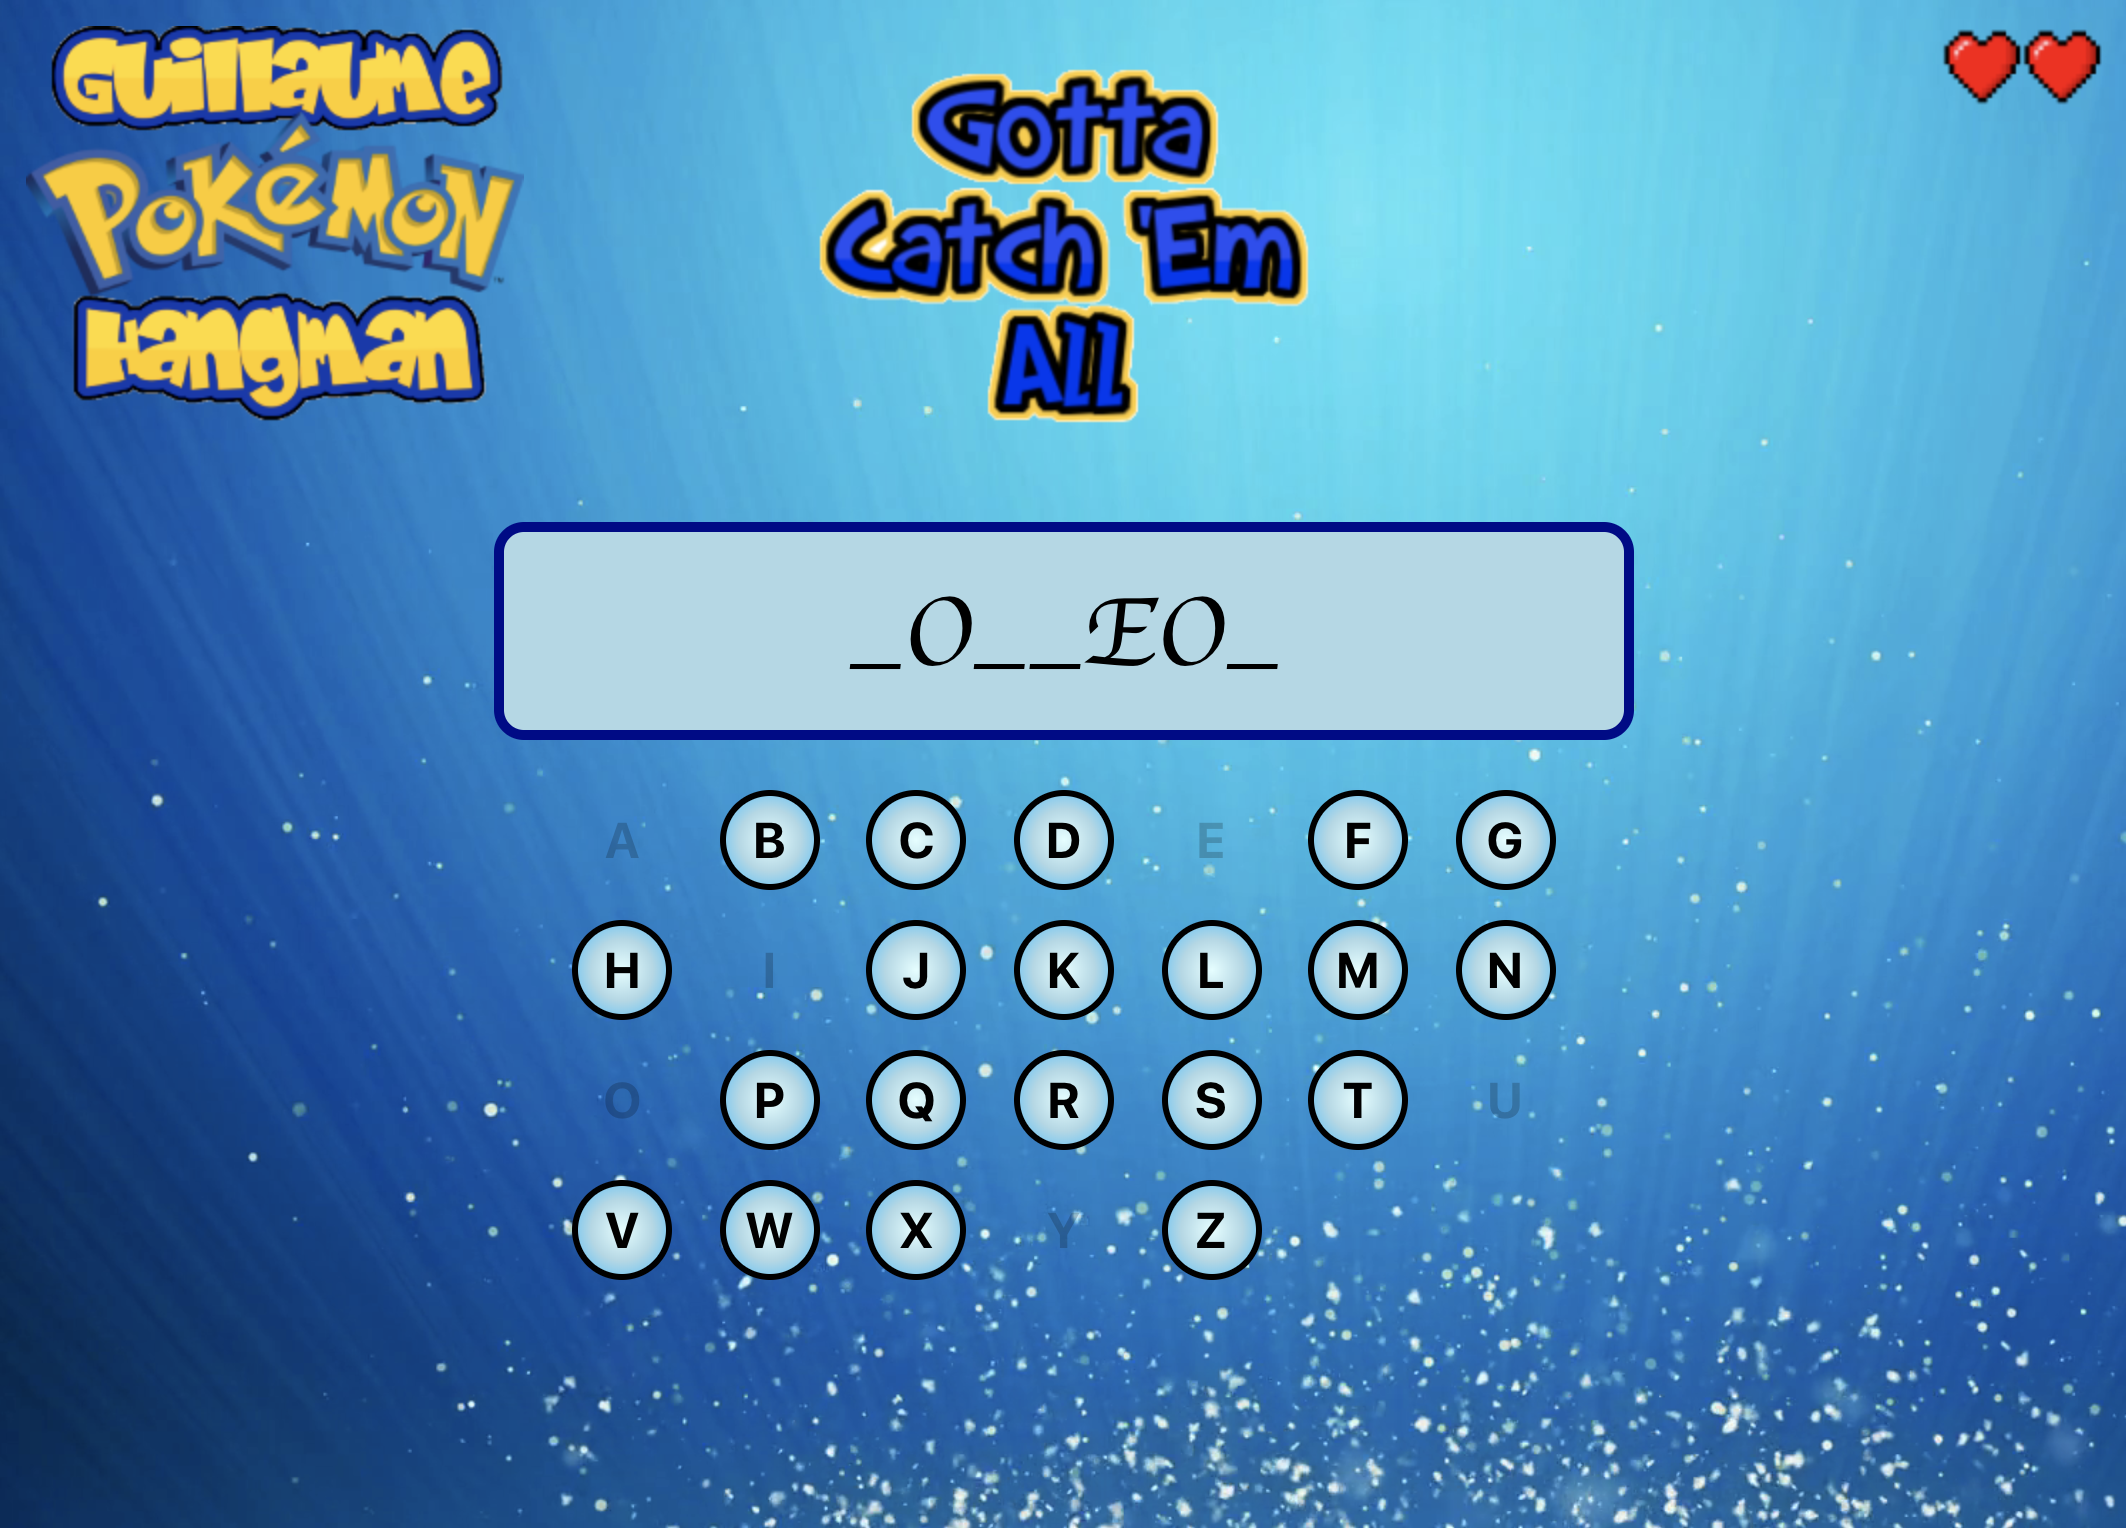
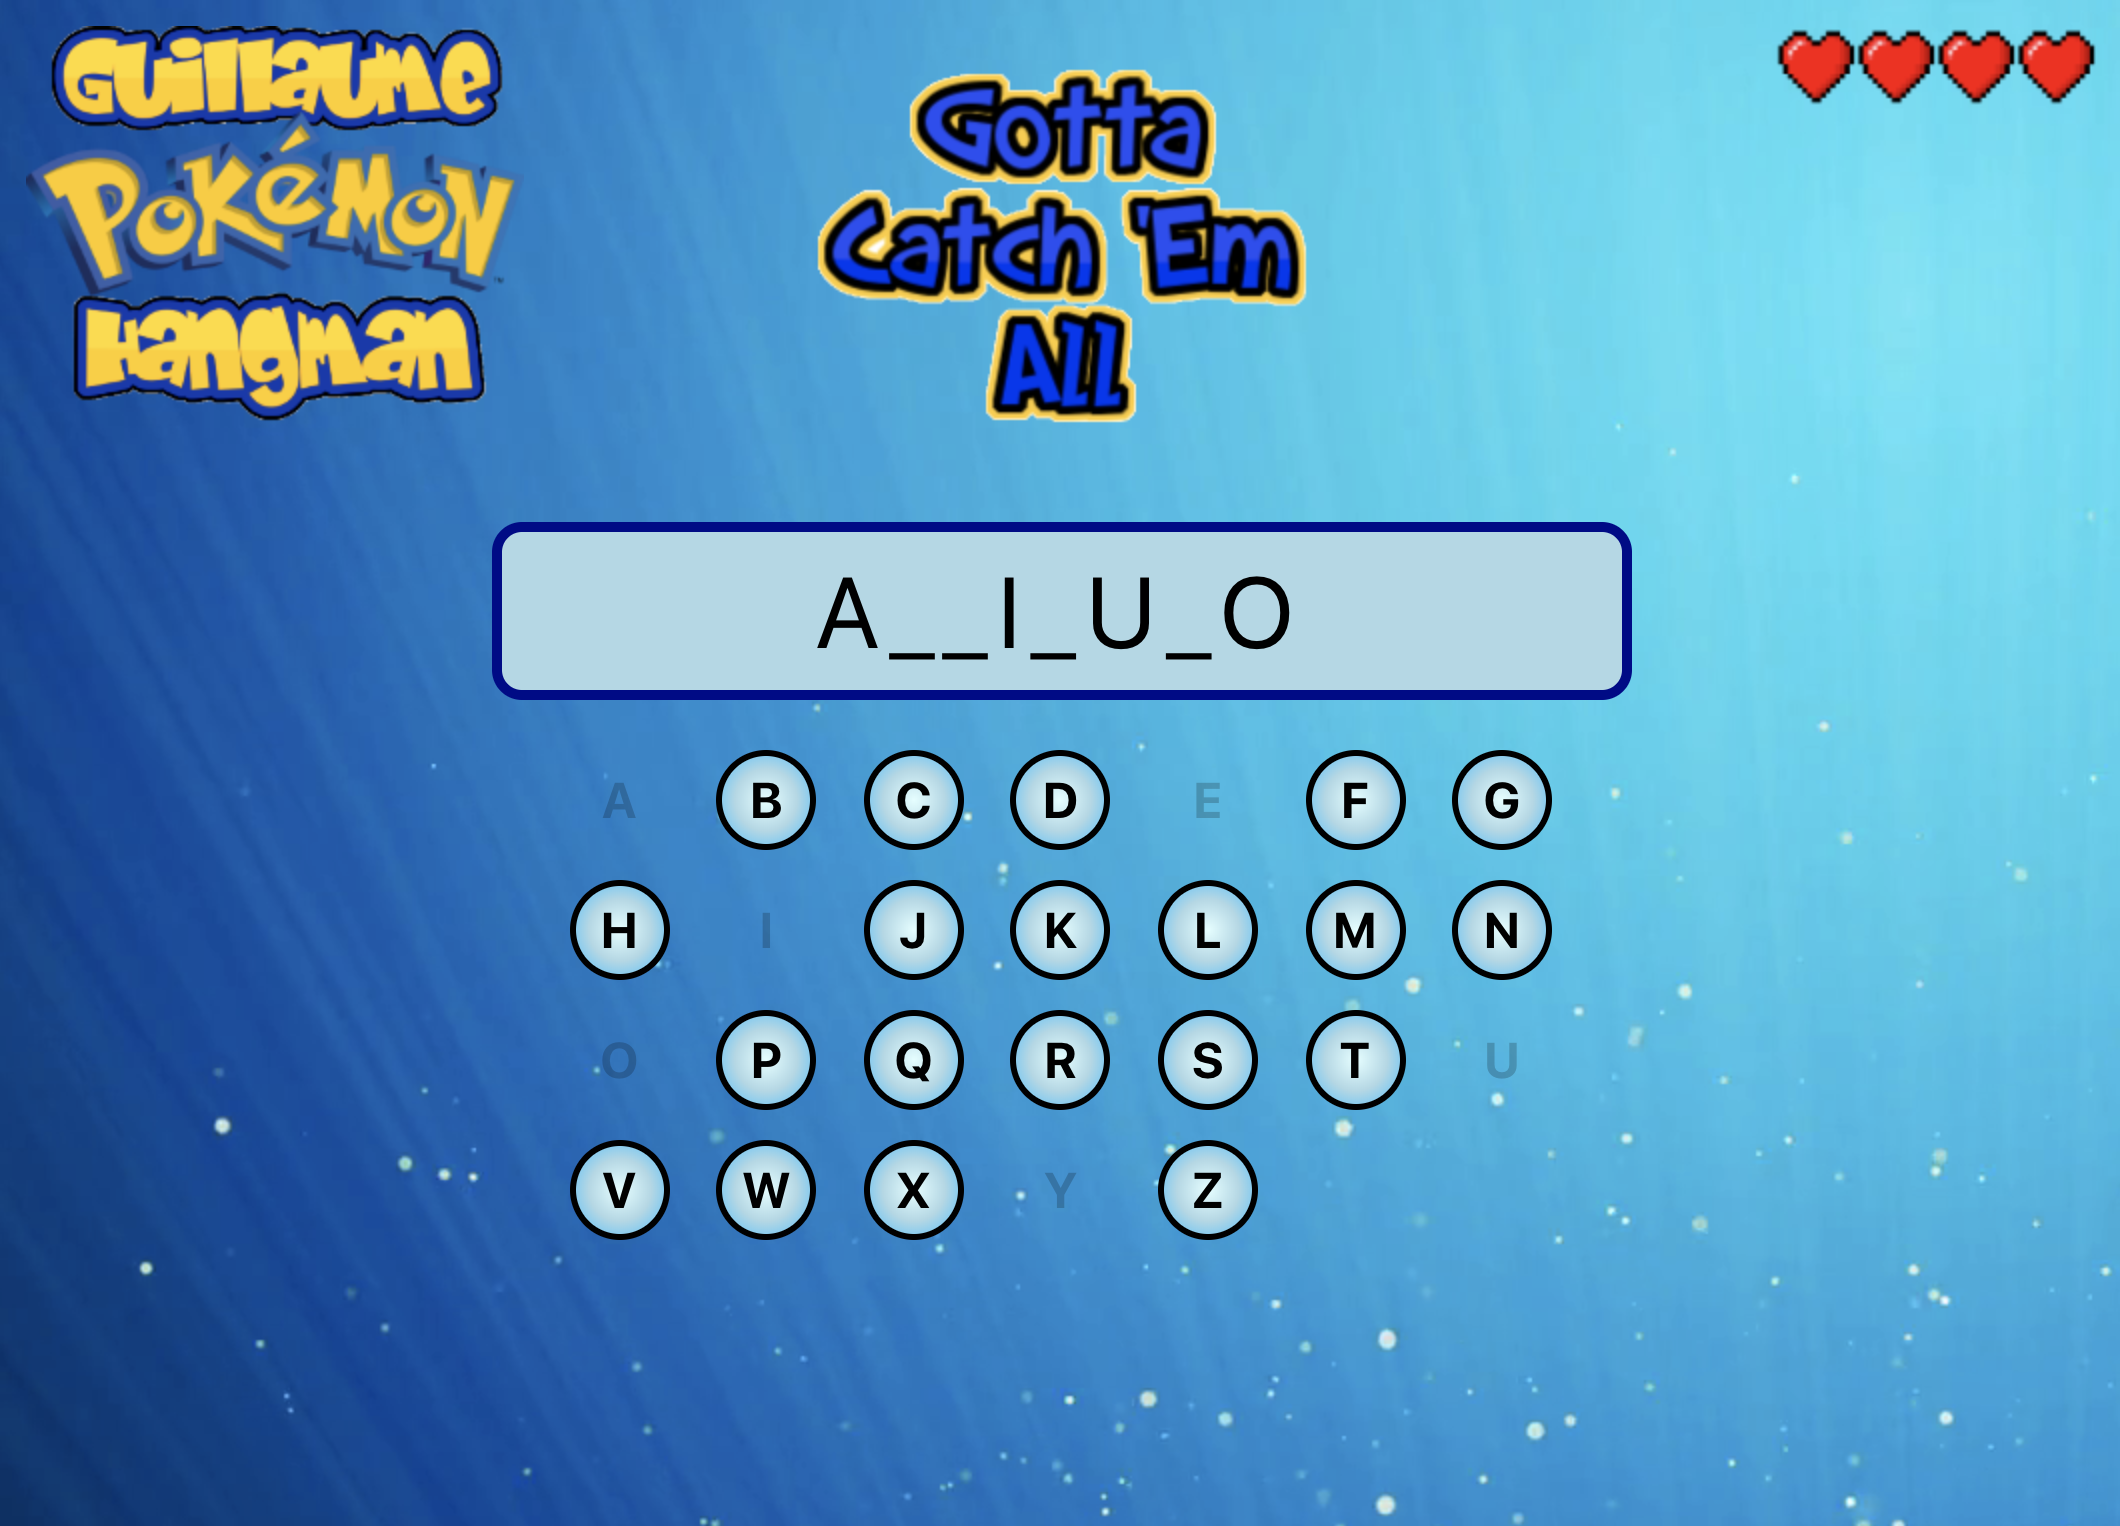
Update number-of-lives so they show only when the game is played

diff --git a/src/components/atoms/number-of-lives.js b/src/components/atoms/number-of-lives.js
@@ -3,8 +3,8 @@ import Media from 'react-media';
 import PropTypes from 'prop-types';
 import { makeLives } from '../../utils/utils';
 
-const NumberOfLives = ({ lives }) =>
-  <Media query="(max-width: 640px)">
+const NumberOfLives = ({ isPlaying, lives }) =>
+  isPlaying && <Media query="(max-width: 640px)">
     {isMobile =>
       <div
         className={`App__lives ${isMobile ? "App__lives--mobile" : null}`}>
@@ -14,7 +14,8 @@ const NumberOfLives = ({ lives }) =>
   </Media>;
 
 NumberOfLives.propTypes = {
-  lives: PropTypes.number.isRequired,
+  isPlaying: PropTypes.bool.isRequired,
+  lives: PropTypes.number.isRequired
 };
 
 export default NumberOfLives;

diff --git a/src/utils/utils.js b/src/utils/utils.js
@@ -10,7 +10,7 @@ const makeLives = (numberOfLives) => {
         {isMobile =>
           <span key={i}>
             <img src={images.heart} alt={`life-${i + 1}`}
-              className={isMobile ? 'App__heart--mobile' : null} />
+              className={`App__heart ${isMobile ? 'App__heart--mobile' : null}`} />
           </span>
         }
       </Media>);

diff --git a/src/components/atoms/number-of-lives-container.js b/src/components/atoms/number-of-lives-container.js
@@ -2,7 +2,8 @@ import { connect } from "react-redux";
 import NumberOfLives from './number-of-lives';
 
 const mapStateToProps = state => ({
-  lives: state.hearts
+  lives: state.hearts,
+  isPlaying: state.isPlaying
 });
 
 export default connect(mapStateToProps)(NumberOfLives);

diff --git a/README.md b/README.md
@@ -31,8 +31,9 @@ Technologies used:
 - png images
 - Github pages
 
-Desktop preview:
+Previews:
 ----
+Desktop:
 ![](public/images/Screenshot1.png)
 
 ![](public/images/Screenshot2.png)
@@ -40,6 +41,9 @@ Desktop preview:
 ![](public/images/Screenshot3.png)
 
 ![](public/images/Screenshot4.png)
+
+Mobile:
+![](public/images/Screenshot5.png)
 
 Tests preview:
 ----
